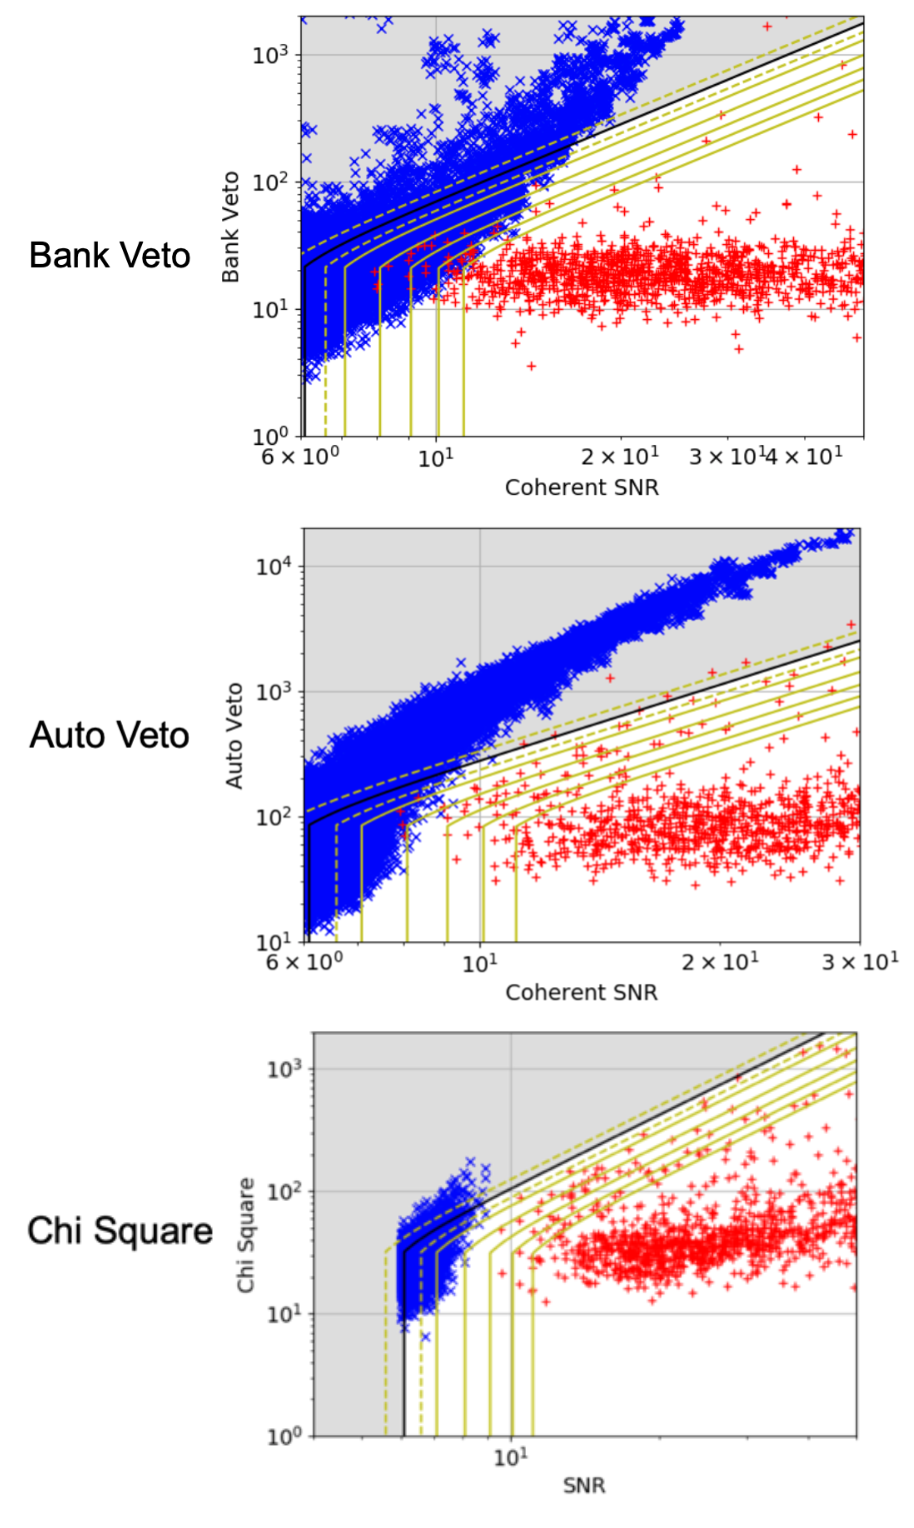
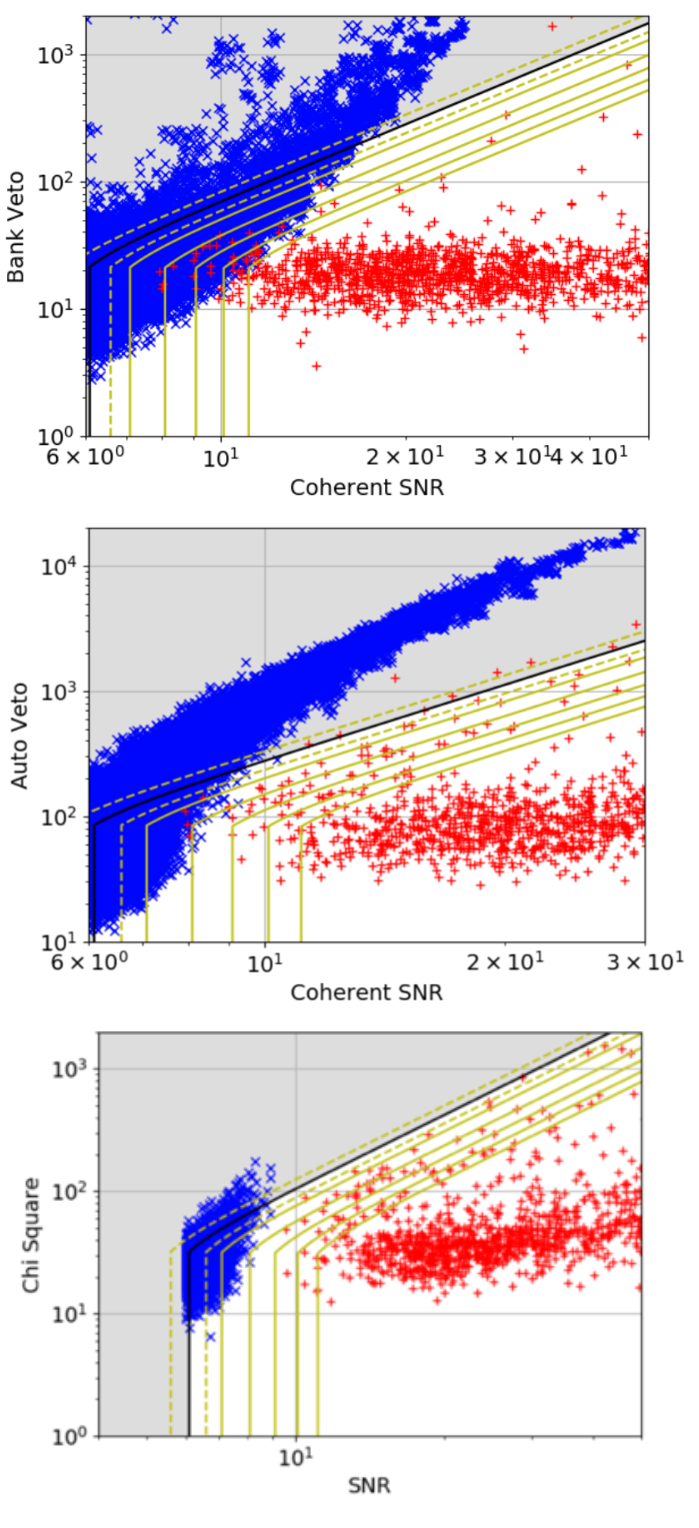
GRB #2

diff --git a/thesis.tex b/thesis.tex
@@ -2925,132 +2925,54 @@ Plot four shows the fitting factor over the injected spin vs the secondary compo
         \end{figure}
 
 \subsection{GRB 190728271}
-       \fpg{Sono qui: le 3 GRBs le correggo, indipendentemente dalla ristrutturazione di tutto ci\`o che precede.}
-\fpg{Rifare sulla falsa riga della precedente sezione.}
+\fpg{Devi raccontare direttamente il run finale.}
+        {\it Fermi}/GBM triggered on GRB 190728271 at 06:30:36 UTC on July 28, 2019.
+        The GRB was located at $RA = \ang{356.7}$, $Dec = \ang{5.4}$
+        with a statistical uncertainty of 5.7 degrees, while the duration was $T_{90} = (0.832 \pm 0.905)\,$s.
+        All three GW detectors were operating at the time of this GRB,
+        and their responses in its direction were 0.271, 0.665, and 0.463 for H1, L1, and V1, respectively.
 
-        The Fermi Gamma-ray Burst Monitor (GBM) triggered and located GRB 190728271 at 06:30:36 UT on 28 Jul 2019.
-        The on-ground calculated location, using the Fermi GBM trigger data, is $RA = \ang{356.7}$, $Dec = \ang{5.4}$
-        with a statistical uncertainty of 5.7 degrees, while the duration is $T_{90} = 0.832 \pm 0.905$s.
-        All three detector were operating at the time of the GRB 190728271,
-        and their responses in the direction of the GRB were: H1 with 0.271, L1 with 0.665, and V1 with 0.463.
-        While the $\chi^2$ plot looks rather clean, one injection ends up in the bank veto grey area,
-        while the auto veto vetoes several injections, as seen in Fig.\,\ref{fig:scplots2}.
-                \begin{figure}[h]
-                        \noindent
-                        \label{scplots2}
-                        \makebox[\textwidth]{\includegraphics[scale=0.5]{scplots2}}%
-                        \centering
-                        \caption{\textbf{Signal consistency plots.} Same as Fig.$\ref{fig:signalconsistencyplots1}$ but for GRB 190728271.}
-                        \label{fig:scplots2}
-                \end{figure}
-        Further investigations revealed that the injection vetoed by the Bank test was lost because it is a 22$M_\odot$,
-        highly spinning and precessing BH with a precessing neutron star.
-        Of the six vetoed injections for the Auto Veto, three of them are highly spinning and highly precessing BNS,
-        one NSBH with highly spinning and precessing NS and highly precessing BH,
-        while the last two are BNS with both spin magnitudes greater than 0.05 and in-plane spin components.
-        Since the H1 single SNR plot  looks scattered, Fig.\,\ref{fig:detector2},
-        with injections barely contained inside $3\sigma$,
-        one could  decide to rerun the analysis excluding H1.
-                \begin{figure}[h]
-                        \noindent
-                        \label{detector2}
-                        \makebox[\textwidth]{\includegraphics[scale=0.5]{detector2}}%
-                        \centering
-                        \caption{Same as Fig.$\ref{fig:detector1}$ but for GRB 190728271.}
-                        \label{fig:detector2}
-                \end{figure}
-        By looking at the Found/Missed Injection plots in Fig.\,\ref{fig:missinj2},
-        and comparing to other GRB analyses, it is noticeable that the injection are distributed closer
-        than for most other runs, and there are also many nearby missed injections
-        for both BNS($<68$Mpc) and aligned spin NSBH($<115$Mpc) injection sets.
-        For the BNS set, 32 injections have FAP$\neq0$:
-        a  closer look at the missed injections table shows that
-        most of them have at least one spin magnitude $>$0.05 that also causes precession,
-        except one, whose spin magnitudes are $\sim0.038$ and $\sim0.036$,
-        but also has a high $\chi^2$-test value, which is the main cause of the BestNR down-weighting.
-        This may be due to the large fractional in-plane spin magnitudes($\sim$0.032 and $\sim$0.036),
-        since the calculated match between template and injection shows a good agreement.
-        This is not the case for two of the ten aligned spin NSBH missed injections:
-        a comparison between the SEOBNRv3 injection with a PhenomD waveform with the same physical parameters as it returns matches of  $\sim$8 and  $\sim$9.
-        One of  the two also has high Null SNR values, together
-        Out of the ten aligned spin NSBH missed injections, three do not have a NS spin magnitude $>$ 0.05:
-        one has high Null SNR value, while  the second one suffers from differences between the waveform models,
-        since  when comparing the SEOBNRv3 injection with a PhenomD waveform with the same physical parameters,
-        return a match of $\sim$0.9. The third one has both a high Null SNR value and a low match ($\sim$8) between the injection and waveform model.
-  	By looking at the Found/Missed Injection plots in Fig.\,\ref{fig:missinj2},
-        and comparing to other GRB analyses, it is noticeable that the injection are distributed closer
-        than for most other runs, and there are also many nearby missed injections
-        for both BNS($<68$Mpc) and aligned spin NSBH($<115$Mpc) injection sets.
-        For the BNS set, 32 injections have FAP$\neq0$:
-        a  closer look at the missed injections table shows that
-        most of them have at least one spin magnitude $>$0.05 that also causes precession,
-        except one, whose spin magnitudes are $\sim0.038$ and $\sim0.036$,
-        but also has a high $\chi^2$-test value, which is the main cause of the BestNR down-weighting.
-        This may be due to the large fractional in-plane spin magnitudes($\sim$0.032 and $\sim$0.036),
-        since the calculated match between template and injection shows a good agreement.
-        This is not the case for two of the ten aligned spin NSBH missed injections:
-        a comparison between the SEOBNRv3 injection with a PhenomD waveform with the same physical parameters as it returns matches of  $\sim$8 and  $\sim$9.
-        One of  the two also has high Null SNR values, together
-        Out of the ten aligned spin NSBH missed injections, three do not have a NS spin magnitude $>$ 0.05:
-        one has high Null SNR value, while  the second one suffers from differences between the waveform models,
-        since  when comparing the SEOBNRv3 injection with a PhenomD waveform with the same physical parameters,
-        return a match of $\sim$0.9. The third one has both a high Null SNR value and a low match ($\sim$8) between the injection and waveform model.
-                \begin{figure}[h]
-                        \noindent
-                        \label{missinj2}
-                        \makebox[\textwidth]{\includegraphics[scale=0.57]{missinj2}}%
-                        \centering
-                        \caption{\textbf{Found/missed injections.}Same as Fig.$\ref{fig:missinj1}$ but for GRB 190728271.}
-                        \label{fig:missinj2}
-                \end{figure}
-        By rerunning the analysis with injection at higher distances partially improves the fraction of recovered injections,
-        as it clear by looking at Fig.$\ref{fig:missinj2_2}$, and increases the exclusion distances and FAPs for all results.
-        The number of BNS injections not confidently recovered has decreased to eighteen at nearby distances ($<$84Mpc),
-        most of them have at least one spin magnitude caused by either a component having spin magnitude $>$0.05,
- 	that also causes precession, excepter three injections that show a high $\chi^2$ value.
-        On the other hand, the number NSBH injections has doubled: the majority was lost due to having a NS spin magnitude $>$0.05,
-        the rest due to vetos.
-                \begin{figure}[h]
-                        \noindent
-                        \label{missinj2_2}
-                        \makebox[\textwidth]{\includegraphics[scale=0.6]{missinj2_2}}%
-                        \centering
-                        \caption{\textbf{Found/missed injections.}Same as Fig.$\ref{fig:missinj1}$ but for GRB 190728271. Results from the first rerun with injections at higher distance.}
-                        \label{fig:missinj2}
-                \end{figure}
-        Follow up investigations about glitches in the IFOs time series showed four spikes with high SNR values:
-        the one at SNR=37.02 corresponds to scattered light, while the ones at 10.75 and 15.81 both are
-        the result of a blip like glitch around trigger time.
-                \begin{figure}[h]
-                        \noindent
-                        \label{glitch_grb}
-                        \makebox[\textwidth]{\includegraphics[scale=0.3]{glitch_grb}}%
-                        \centering
-                        \caption{Glitch follow up: re-weigted SNR vs GPS time.}
-                        \label{fig:glitch_grb}
-                \end{figure}
-	Fig.$\ref{fig:missinj2_3}$ shows the results for the Found/Missed injections for the second rerun analysis, 
-	with higher distances for BNS (375Mpc) and NSBH (700Mpc) injection set,
-	in order to maximise the number of injections at close distances where most injections get lost.
-	Furthermore, a new threshold was chosen for the single SNR cut:
-	instead of a threshold value of four, as discussed in Sec.$\ref{subsec:pygrb}$,
-	now any triggers with $\rho_X=0$ are discharged.
-	As a consequence of these choices, the last  rerun shows better results:
-	higher 90\% exclusion distances for both BNS and NSBH, 
-	with $D_{90}\sim$118Mpc and $D_{90}\sim$134Mpc respectively.
-	Within 118Mpc, out of all the BNS set of injections twenty of them are not recovered confidently.
-	They all have at least one spin magnitude $>$0.05, that also causes precession,
-	besides two injections that have high $\chi^2$ and NullSNR values instead.
-	Given the improved results, the analysis has procede to further investigate the insource data.
-	However,  since the final results are not yet public, we cannot disclose them.
-                \begin{figure}[h]
-                        \noindent
-                        \label{missinj2_3}
-                        \makebox[\textwidth]{\includegraphics[scale=0.6]{missinj2_3}}%
-                        \centering
-                        \caption{\textbf{Found/missed injections.}Same as Fig.$\ref{fig:missinj1}$ but for GRB 190728271. Results from the second rerun with injections at higher distance.}
-                        \label{fig:missinj2_3}
-                \end{figure}
+        While the results of the $\chi^2$-tests look rather clean (Fig.\,\ref{fig:scplots2}), a loud injection ends up being bank-vetoed,
+        as do six injections in the case of the auto veto.
+        \begin{figure}[!t]
+          \noindent
+          \label{scplots2}
+          \makebox[\textwidth]{\includegraphics[scale=0.68]{scplots2}}%
+          \centering
+          \caption{\textbf{Signal consistency plots.} Same as Fig.$\ref{fig:signalconsistencyplots1}$ but for GRB 190728271. \fpg{Servono i pannelli relativi al run definitivo.}}
+          \label{fig:scplots2}
+        \end{figure}
+        Further investigations revealed that the bank-vetoed injection corresponds to a 22$M_\odot$ NSBH system,
+        with a highly spinning and precessing BH as well as a precessing NS: this kind of system is beyond the parameter space region targetted by the template bank.
+        Of the six auto-vetoed injections, five are BNSs with precessing NSs spinning with magnitudes greater than $0.05$, and
+        one is an NSBH with highly spinning and precessing NS and a highly precessing BH.
+        The plots of the of the single SNR versus coherent SNR (Fig.\,\ref{fig:detector2}) reveal that the performance of H1 is not ideal, as several injections fall outside the $3\sigma$ deviation from the expected behaviour.
+        This is due to the poor antenna response of H1 in comparison the L1 and V1.  This also reflects in a fairgly high number of nearby injections that are either not recovered as louder than all background events or are vetoed, even when considering the non-precessing NSBH injeciton set (Fig.\,\ref{fig:missinj2_3}).
+        \begin{figure}[!t]
+          \noindent
+          \label{detector2}
+          \makebox[\textwidth]{\includegraphics[scale=0.55]{detector2}}%
+          \centering
+          \caption{Same as Fig.$\ref{fig:detector1}$, but for GRB 190728271 and for three detectors this time. \fpg{Servono i pannelli relativi al run definitivo.}}
+          \label{fig:detector2}
+        \end{figure}
+        %
+        \begin{figure}[!t]
+          \noindent
+          \label{missinj2_3}
+          \makebox[\textwidth]{\includegraphics[scale=0.4]{missinj2_3}}%
+          \centering
+          \caption{\textbf{Found/missed injections.} Same as Fig.$\ref{fig:missinj1}$ but for GRB 190728271.}
+          \label{fig:missinj2_3}
+        \end{figure}
+        % 
+	Twenty nearby BNS injections were found not to be recovered confidently.
+	All of them have at least one spin magnitude greater than 0.05, that is also precessing.  A high NS spin magnitude was also found for the nearby NSBH injections that were not recovered as louder than all the background events.
+
+        As for GRB 190627A, this background analysis gave overall good results,
+	and the on-source data results were investigated.
+	These, too, are not public yet and cannot be disclosed.
+
 \subsection{GRB 190425089}
 \fpg{Rifare sulla falsa riga della precedente sezione.}
         GRB 190425089 was observed at 02:07:43 on April 25, 2019 by the Swift satellites,
